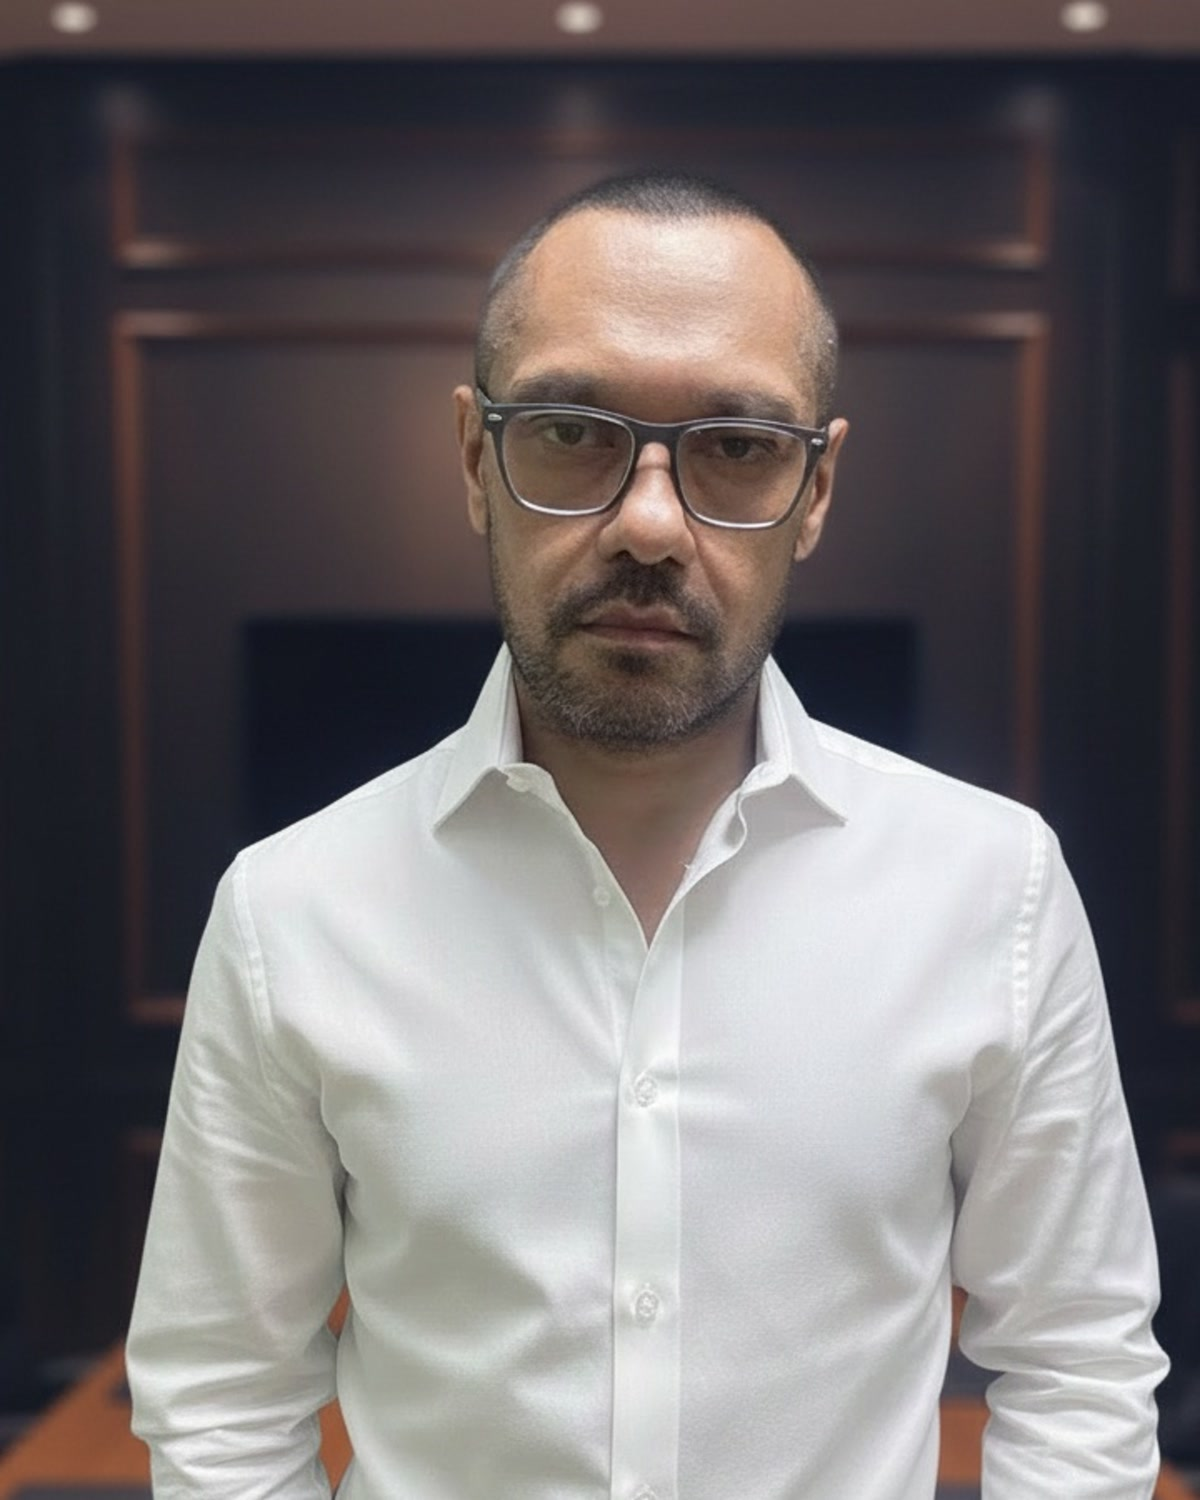
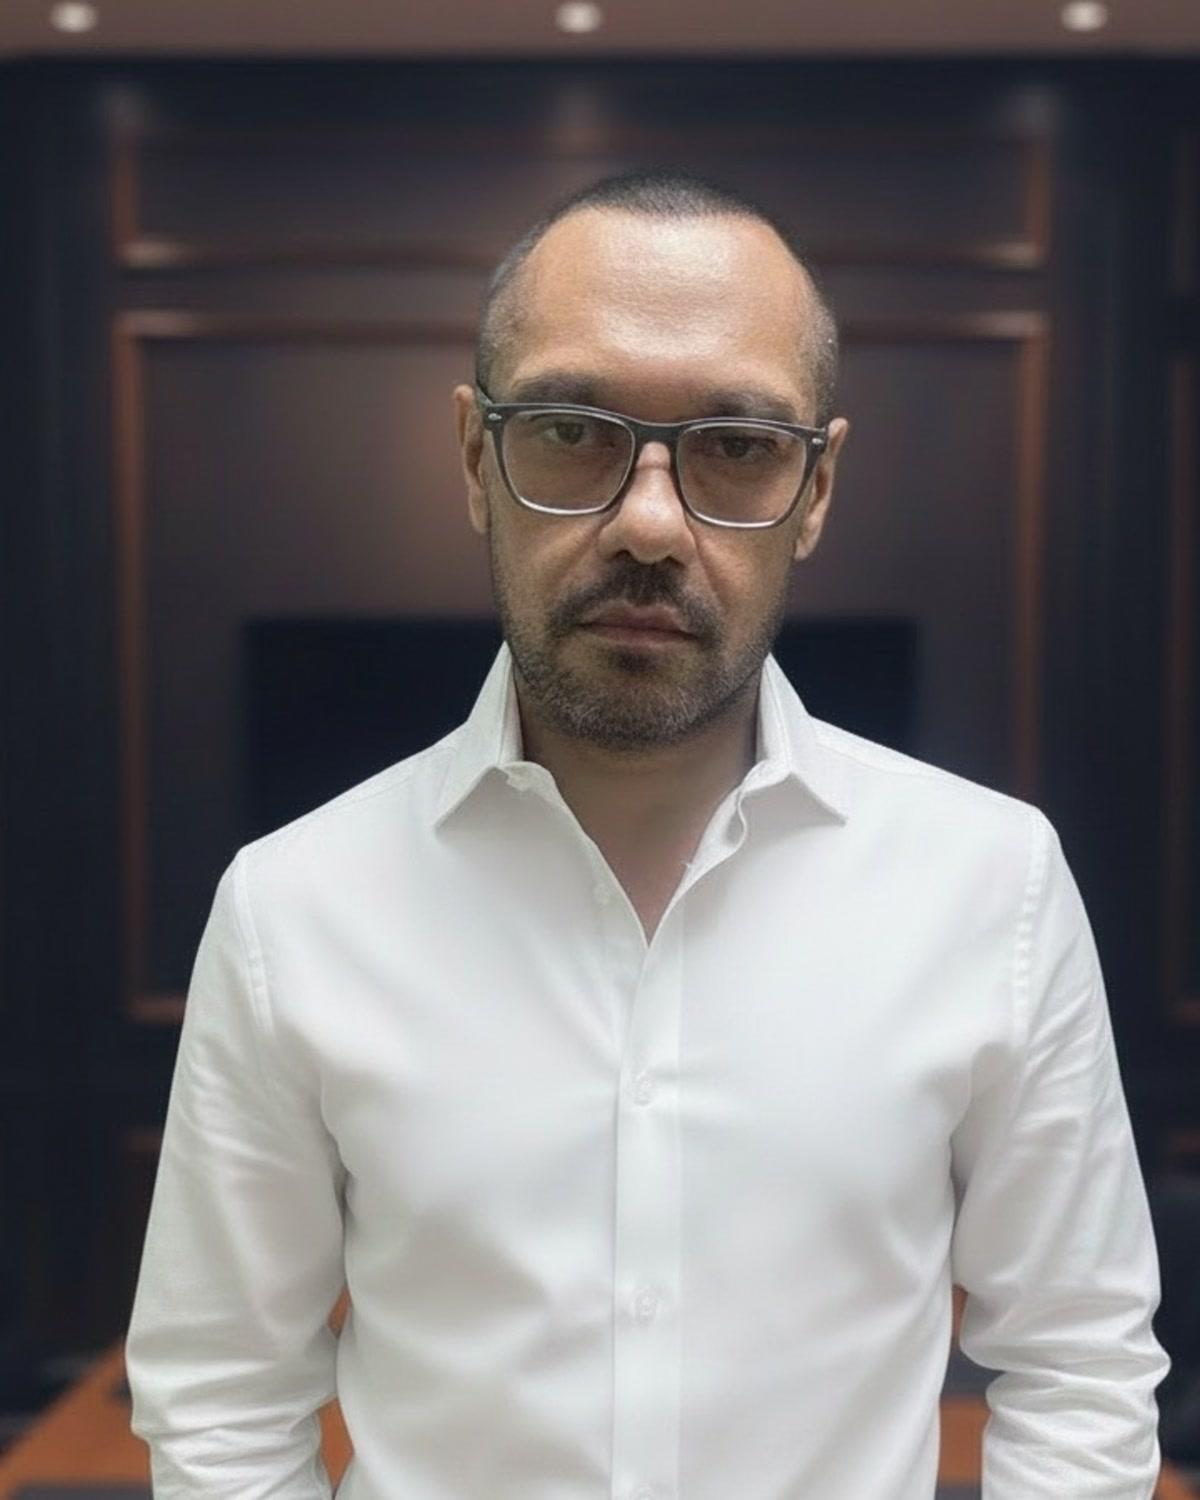
v3.1.19: chest fabric uniformity + directional portrait shadow
(1) Portrait — single nano-banana pass on the v3.1.18 boardroom output
    to make the white shirt fabric uniformly opaque across the chest.
    Removes the slight see-through quality of the cotton without
    touching anything else. 3 nano-banana passes deep total — still
    clean.

(2) CSS — added a second directional box-shadow on .portrait-artwork
    (14px right + 22px down, 36px blur, 32% opacity). The portrait
    now reads as a framed object set into the cream About panel
    rather than floating flat. Original ambient shadow kept for soft
    elevation underneath.

Cache-bust styles.css?v=3.1.19 and portrait.jpg?v=3.1.19.

diff --git a/index.html b/index.html
@@ -31,7 +31,7 @@
   <link rel="preconnect" href="https://fonts.gstatic.com" crossorigin />
   <link href="https://fonts.googleapis.com/css2?family=Fraunces:ital,wght@0,300;0,400;0,500;0,600;1,300;1,400;1,500&family=Inter:wght@300;400;500;600&display=swap" rel="stylesheet" />
 
-  <link rel="stylesheet" href="styles.css?v=3.1.17" />
+  <link rel="stylesheet" href="styles.css?v=3.1.19" />
 
   <script type="application/ld+json">
   {
@@ -388,7 +388,7 @@
         <div class="about-grid">
           <figure class="portrait-figure">
             <div class="portrait-artwork">
-              <img src="assets/portrait.jpg?v=3.1.18"
+              <img src="assets/portrait.jpg?v=3.1.19"
                    alt="Taran Aujla, Salesperson with HomeLife G1 Realty Inc., Brokerage. Editorial portrait."
                    width="880" height="1184"
                    loading="lazy" decoding="async" />

diff --git a/styles.css b/styles.css
@@ -1098,7 +1098,13 @@ section h2 em {
   border: 1px solid var(--paper-rule);
   overflow: hidden;
   position: relative;
-  box-shadow: 0 18px 40px -24px rgba(10, 13, 20, 0.35);
+  /* Two-shadow stack: a soft ambient drop for elevation, plus a
+     stronger directional shadow biased toward bottom-right so the
+     portrait reads as a framed object sitting in the cream panel
+     rather than floating flat against it. */
+  box-shadow:
+    0 18px 40px -24px rgba(10, 13, 20, 0.35),
+    14px 22px 36px -14px rgba(10, 13, 20, 0.32);
 }
 .portrait-artwork svg,
 .portrait-artwork img {

diff --git a/README.md b/README.md
@@ -273,6 +273,7 @@ A fade-in-on-scroll effect exists in the inline `<script>` at the bottom of `ind
 
 ## Version history
 
+- **v3.1.19** (2026-05-04) Two small refinements on the v3.1.18 boardroom portrait. (1) **Portrait — chest fabric uniformity.** Single focused nano-banana pass on `CLEAN-REAL4-boardroom-FULL.jpg` instructing "make the white shirt fabric appear uniformly opaque across the chest area, smooth out any subtle tonal variation or visible texture beneath the fabric." Removes the slight see-through quality of the cotton in the chest area while preserving collar, button placket, all natural folds at shoulders/elbows, and everything else outside the shirt fabric. Output `CLEAN-REAL4-boardroom-v2-D-tight.jpg` (107 KB) ships as `assets/portrait.jpg`. Total: 3 nano-banana passes deep on the face — still well within clean territory, no plasticky tells. (2) **Directional drop shadow on `.portrait-artwork`.** Added a second box-shadow layer offset 14px right + 22px down with 36px blur at 32% opacity — gives the portrait the visual presence of a framed object set into the cream About panel rather than floating flat against it. Original ambient shadow retained underneath for soft elevation. Cache-bust both `styles.css` and `portrait.jpg` to `?v=3.1.19`.
 - **v3.1.18** (2026-05-04) New portrait via clean 2-pass nano-banana pipeline. Fresh start from `V2.jpg` (a different source photo with a more authoritative pose) using a deliberately-minimal 2-pass chain to avoid the JPEG generation-loss problem that wrecked v3.1.13/14 (which had stacked 6+ kontext passes and the face went visibly AI-processed). Pass 1: combined color/exposure correction + shirt smoothing on the V2 source — single nano-banana call producing `step1-clean.jpg`. Pass 2: background replacement with the "high-end private boardroom" prompt — dark wood paneling with soft architectural recessed-panel framing visible as blurred shapes, soft warm ambient lighting from off-camera (no visible fixture), hint of a polished conference table edge in the lower foreground, hint of a dark leather chair/banquette as a soft mass in the lower-left. Output `CLEAN-REAL4-boardroom-FULL.jpg` cropped at the D-tight framing (720×900 source crop, scaled to 1200px wide, both shoulders fit comfortably, mid-chest framing). Total: 2 nano-banana calls deep on the face — pixel quality preserved (skin texture, beard hair, eye sharpness, glasses clarity all visible at zoom). Reads as "private space where high-stakes decisions are made quietly" — the brand brief. 129 KB shipped. Cache-bust `?v=3.1.18`. Pipeline script: `assets/portrait-source/_run-clean-2pass.mjs`. Working alternates retained under `_final-stages/v2-CLEAN/` (CLEAN-REAL3-herringbone variants for future use).
 - **v3.1.17** (2026-05-03) **Critical fix: index.html was truncated mid-tag for the past 7 commits.** Discovered while investigating "card flip stopped working" + "topbar transparent on scroll" reports. Both symptoms had the same root cause: the inline `<script>` block at the end of `index.html` was unclosed — file ended literally with `</sc` instead of `</script></body></html>`. Truncation was introduced in commit `9c47966` ("Migrate canonical to prime-gate.ca; deploy v3-compliant build", 2026-05-03 00:50) which lost the last few characters of the file. Browsers parsed the unclosed script tag and silently failed to register the lane-card-flip click listeners + topbar scroll/over-light listeners, but did not throw a visible console error. Restored the file to end with `</script>\n</body>\n</html>` per the working pre-migration version (`a120606`). All inline JS now executes: practice card 3D flip works again, topbar dark background on scroll works again, and the over-light cream background on About/Intake panels works again (which means logo inversion would also work — but per v3.1.15 user direction the brand wordmark stays cream-on-cream regardless). Cache-bust to `?v=3.1.17`.
 - **v3.1.16** (2026-05-03) Portrait reverted to `v2-pass2-shadow` per user feedback. v3.1.13/14/15's stack of 5+ kontext/max passes (sleeves aggressive → face glow → left-arm focused → face-brighter-natural) compounded JPEG generation-loss artifacts and gave the photo an "AI-processed" pixel quality when zoomed in. A conservative `clarity-upscaler` cleanup pass (v6, creativity 0.15, resemblance 0.9, 2x upscale) was attempted but introduced new artifacts: face went slightly plasticky around cheeks, right-side glasses arm rendered with a visible glitch, sleeve wrinkles unchanged. User opted to roll back all the way to `v2-pass2-shadow` (the cleanest stop-point — only 2 kontext passes deep, retains the relit lounge background + initial chest-wrinkle smoothing, leaves natural shirt drape on sleeves rather than try to over-correct them). 138 KB, 880×1184. Cache-bust to `?v=3.1.16`. Pipeline scripts retained under `assets/portrait-source/_run-*.mjs` for future re-runs if desired (start fresh from L4 background to avoid the multi-pass pixel decay).
